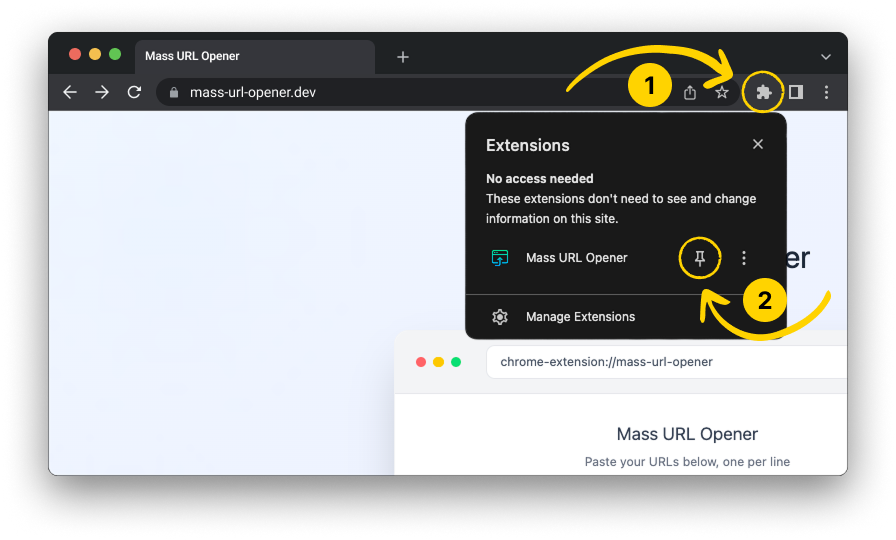
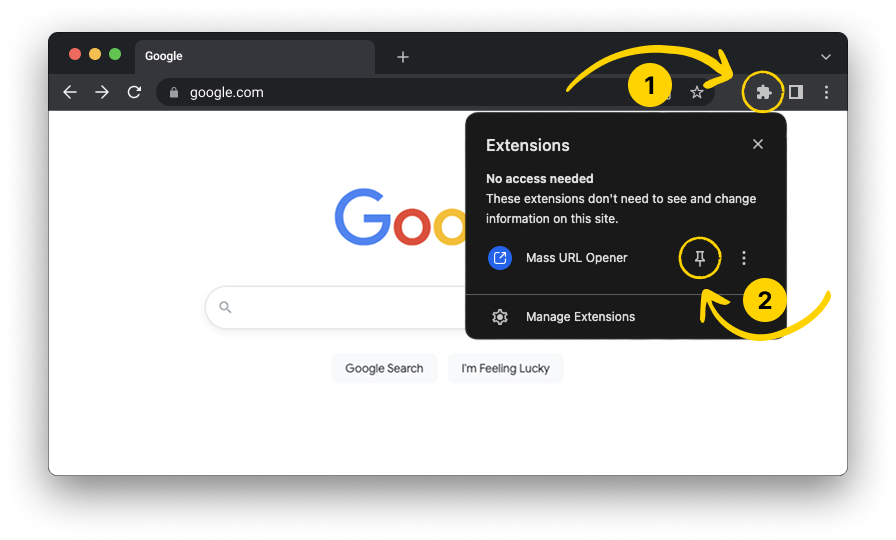
feat: обновление welcome page

diff --git a/welcome/index.html b/welcome/index.html
@@ -4,7 +4,7 @@
     <meta charset="UTF-8">
     <meta name="viewport" content="width=device-width, initial-scale=1.0">
     <title>Mass URL Opener - Welcome</title>
-    <link rel="stylesheet" href="styles.css">
+    <link rel="stylesheet" href="styles.css?ver=020820251724">
     <!-- Yandex.Metrika counter -->
     <script type="text/javascript">
         (function(m,e,t,r,i,k,a){
@@ -25,9 +25,6 @@
         <!-- Header -->
         <div class="header">
             <h1>Thanks for choosing Mass URL Opener!</h1>
-            <p class="subtitle">
-                Get started in just a few steps with your new extension
-            </p>
         </div>
 
         <!-- Instructions -->
@@ -35,48 +32,29 @@
             <!-- Step 1 -->
             <div class="step">
                 <div class="step-header">
-                    <div class="step-number">1</div>
-                    <h2>Pin the extension to your browser toolbar for quick access to the Mass URL Opener</h2>
+                    <h2>Click the puzzle piece icon in your browser toolbar (1), then click the pin icon (2) next to the extension:</h2>
                 </div>
 
                 <div class="image-container">
                     <img width="896"
-                            src="first-image.png"
+                            src="first-image.png?ver=020820251724"
                             alt="Step 1: Click on extensions icon and pin Mass URL Opener"
                     />
                 </div>
-
-                <p class="step-description">
-                    Click the Extensions icon (the puzzle piece) in your browser toolbar, then click the pin icon next to Mass URL Opener to pin it for quick access.
-                </p>
             </div>
 
             <!-- Step 2 -->
             <div class="step">
                 <div class="step-header">
-                    <div class="step-number">2</div>
-                    <h2>Click the extension icon to launch the Mass URL Opener</h2>
+                    <h2>Open Mass URL Opener on any page by clicking its icon in the toolbar (3):</h2>
                 </div>
 
                 <div class="image-container">
                     <img width="896"
-                            src="second-image.png"
+                            src="second-image.png?ver=020820251724"
                             alt="Step 2: Click on the pinned Mass URL Opener icon"
                     />
                 </div>
-
-                <p class="step-description">
-                    Once pinned, you can access Mass URL Opener at any time by clicking its icon in the toolbar.
-                </p>
-            </div>
-        </div>
-
-        <!-- Footer -->
-        <div class="footer">
-            <div class="footer-content">
-                <p>
-                    You're all set! Just click the Mass URL Opener icon whenever you want to open multiple links at once.
-                </p>
             </div>
         </div>
     </div>

diff --git a/welcome/styles.css b/welcome/styles.css
@@ -94,7 +94,6 @@ p {
 .instructions {
     display: flex;
     flex-direction: column;
-    gap: 4rem;
 }
 
 .step {
@@ -173,10 +172,6 @@ p {
 
     .header {
         margin-bottom: 2rem;
-    }
-
-    .instructions {
-        gap: 2.5rem;
     }
 
     .step {
